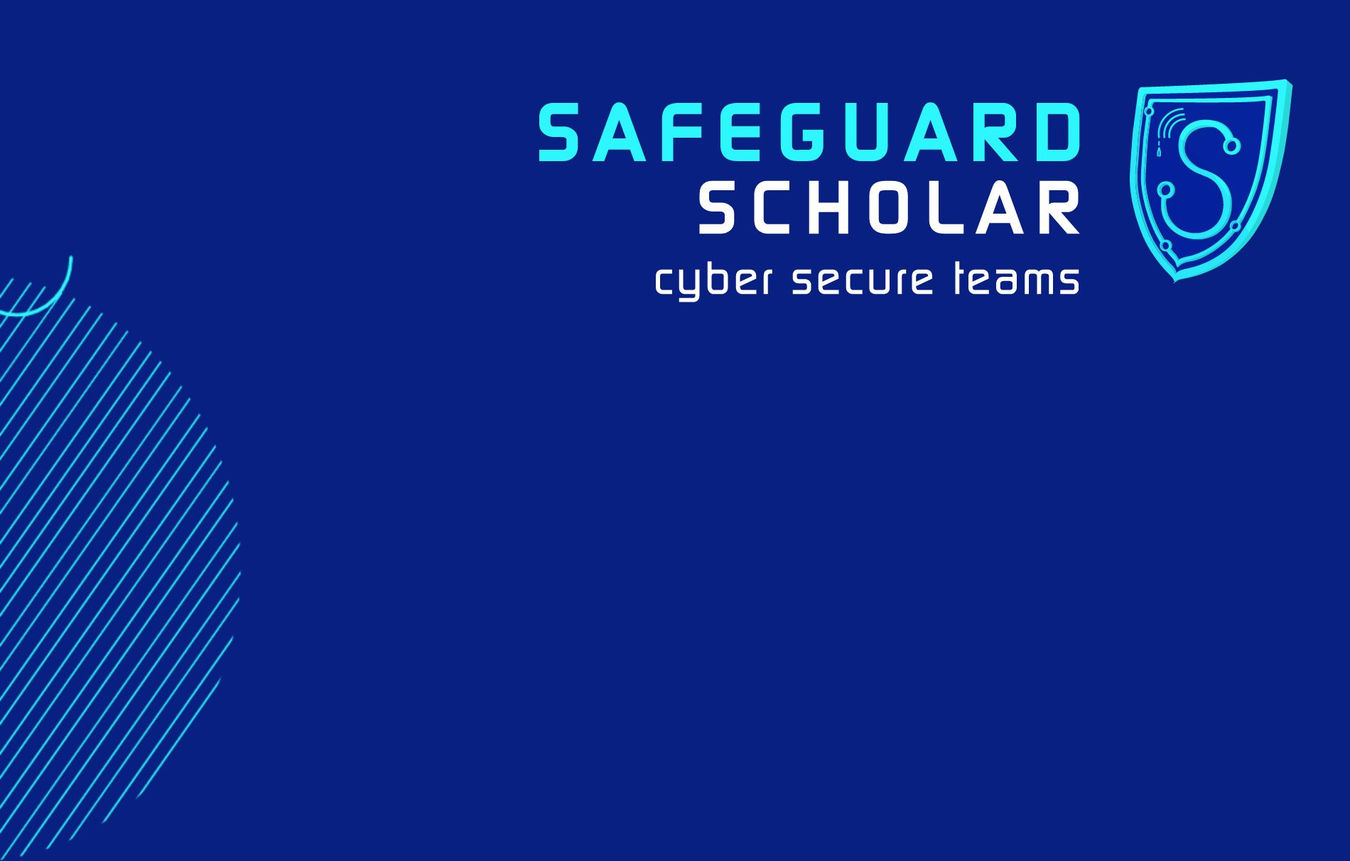
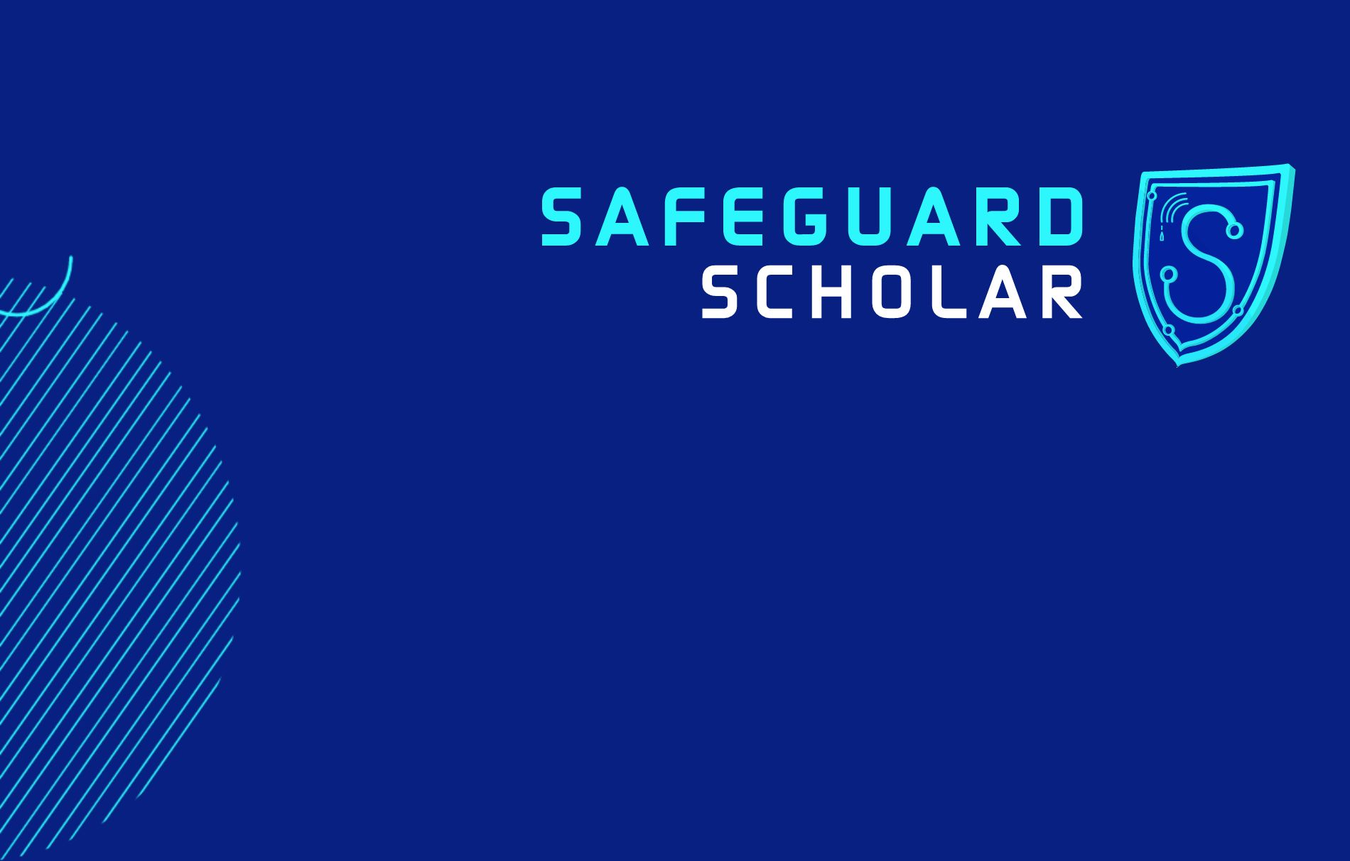
some css changes to remove background darkening

Changed region(s): [[0.3726, 0.122, 0.8074, 0.366], [0.8384, 0.0915, 0.9626, 0.427]]

diff --git a/css/style.min.css b/css/style.min.css
@@ -4,4 +4,4 @@
  * Author: ProBootstrap.com
  * Author URL: https://probootstrap.com
  * License: Released for free under the Creative Commons Attribution 3.0 license (probootstrap.com/license)
- */.probootstrap-navbar .dropdown-submenu>a:before,.probootstrap-navbar .dropdown>a:before{speak:none;font-style:normal;font-variant:normal;-webkit-font-smoothing:antialiased;-moz-osx-font-smoothing:grayscale}@font-face{font-family:icomoon;src:url(../fonts/icomoon/fonts/icomoon.eot?1z9v6x);src:url(../fonts/icomoon/fonts/icomoon.eot?1z9v6x#iefix) format("embedded-opentype"),url(../fonts/icomoon/fonts/icomoon.ttf?1z9v6x) format("truetype"),url(../fonts/icomoon/fonts/icomoon.woff?1z9v6x) format("woff"),url(../fonts/icomoon/fonts/icomoon.svg?1z9v6x#icomoon) format("svg");font-weight:400;font-style:normal}html{overflow-x:hidden;font-size:1.25em}body{background:#fff;color:#73767c;line-height:1.7;font-size:16px;font-family:"Open Sans",Arial,sans-serif}::selection{background:#000;color:#fff}::-moz-selection{background:#000;color:#fff}h1,h2,h3,h4,h5,h6,ol,p{margin-bottom:30px}a{-webkit-transition:.3s all;transition:.3s all;color:#1a57a5}a:active,a:focus,a:hover{color:#174b8f;text-decoration:none}.probootstrap-navbar{border:none;-webkit-box-shadow:none;box-shadow:none;border-radius:0;margin-bottom:0;background:0 0;position:absolute;top:40px;width:100%;z-index:200}@media screen and (max-width:768px){.probootstrap-navbar{top:0;background:#fff;-webkit-box-shadow:0 2px 10px 0 rgba(0,0,0,.1);box-shadow:0 2px 10px 0 rgba(0,0,0,.1)}}.probootstrap-navbar .navbar-toggle:focus,.probootstrap-navbar .navbar-toggle:hover{background-color:transparent}.probootstrap-navbar .navbar-toggle{border:none}.probootstrap-navbar .navbar-toggle span.icon-bar{-webkit-transition:all .15s;transition:all .15s}.probootstrap-navbar .navbar-toggle span:nth-child(2){-webkit-transform:rotate(45deg);transform:rotate(45deg);-webkit-transform-origin:10% 10%;transform-origin:10% 10%}.probootstrap-navbar .navbar-toggle span:nth-child(3){opacity:0}.probootstrap-navbar .navbar-toggle span:nth-child(4){-webkit-transform:rotate(-45deg);transform:rotate(-45deg);-webkit-transform-origin:10% 90%;transform-origin:10% 90%}.probootstrap-navbar .navbar-toggle.collapsed span:nth-child(2),.probootstrap-navbar .navbar-toggle.collapsed span:nth-child(4){-webkit-transform:rotate(0);transform:rotate(0)}.probootstrap-navbar .navbar-toggle.collapsed span:nth-child(3){opacity:1}.probootstrap-navbar .navbar-brand,.probootstrap-navbar .navbar-nav>li>a,.probootstrap-navbar .parent-nav-link-padding{margin-left:15px;margin-right:15px;padding:25px 0}.probootstrap-navbar .dropdown-header{color:rgba(255,255,255,.2);padding-left:10px;text-transform:uppercase}.probootstrap-navbar .dropdown>a{padding-right:10px!important;position:relative;display:block}@media screen and (max-width:480px){.probootstrap-navbar .dropdown>a{display:block;padding-right:0}}.probootstrap-navbar .dropdown>a:before{font-family:icomoon;font-weight:400;text-transform:none;line-height:1;position:absolute;top:50%;right:0;margin-right:-10px;margin-top:-11px;content:"\e924";font-size:20px;color:rgba(255,255,255,.5);-webkit-transition:.3s all;transition:.3s all}.probootstrap-navbar .navbar-brand,.probootstrap-navbar .navbar-brand em{font-family:"Open Sans",Arial,sans-serif}@media screen and (max-width:768px){.probootstrap-navbar .navbar-brand,.probootstrap-navbar .navbar-nav>li>a,.probootstrap-navbar .parent-nav-link-padding{padding-top:25px!important;padding-bottom:25px!important}.probootstrap-navbar .dropdown>a:before{color:rgba(0,0,0,.2)}}.probootstrap-navbar .dropdown>a:hover:before{-webkit-transform:rotate(180deg);transform:rotate(180deg)}.probootstrap-navbar .dropdown.open>a,.probootstrap-navbar .dropdown:active>a,.probootstrap-navbar .dropdown:focus>a,.probootstrap-navbar .dropdown:hover>a{-webkit-transition:.3s all;transition:.3s all}.probootstrap-navbar .dropdown.open>a:before,.probootstrap-navbar .dropdown:active>a:before,.probootstrap-navbar .dropdown:focus>a:before,.probootstrap-navbar .dropdown:hover>a:before{-webkit-transform:rotate(180deg);transform:rotate(180deg)}.probootstrap-navbar .dropdown>.dropdown-menu>li a{padding:10px;color:rgba(255,255,255,.8)}.probootstrap-navbar .dropdown>.dropdown-menu>li a:hover,.probootstrap-navbar .dropdown>.dropdown-menu>li.open>a,.probootstrap-navbar .dropdown>.dropdown-menu>li:active>a,.probootstrap-navbar .dropdown>.dropdown-menu>li:focus>a,.probootstrap-navbar .dropdown>.dropdown-menu>li:hover>a{color:#85C8DD;background:#fff;border-top:none}.probootstrap-navbar .dropdown>.dropdown-menu>li.dropdown-submenu.open>a,.probootstrap-navbar .dropdown>.dropdown-menu>li.dropdown-submenu:active>a,.probootstrap-navbar .dropdown>.dropdown-menu>li.dropdown-submenu:focus>a,.probootstrap-navbar .dropdown>.dropdown-menu>li.dropdown-submenu:hover>a{border-top:none}.probootstrap-navbar .dropdown>.dropdown-menu>li.dropdown-submenu.open>a:before,.probootstrap-navbar .dropdown>.dropdown-menu>li.dropdown-submenu:active>a:before,.probootstrap-navbar .dropdown>.dropdown-menu>li.dropdown-submenu:focus>a:before,.probootstrap-navbar .dropdown>.dropdown-menu>li.dropdown-submenu:hover>a:before{color:#000}.probootstrap-navbar .dropdown>.dropdown-menu>li.active>a,.probootstrap-navbar .navbar-brand:hover{color:#fff}.probootstrap-navbar .navbar-right .dropdown-menu{right:auto}.probootstrap-navbar .dropdown-menu{border:none;background:#85C8DD;border-radius:0;-webkit-box-shadow:0 0 7px 0 rgba(0,0,0,.15);box-shadow:0 0 7px 0 rgba(0,0,0,.15);min-width:200px;white-space:normal;word-wrap:break-word}.probootstrap-navbar .dropdown-menu a{white-space:normal}@media screen and (max-width:768px){.probootstrap-navbar .dropdown-menu{width:100%;padding:10px 15px}.probootstrap-navbar .dropdown-menu a{color:#fff}}.probootstrap-navbar .navbar-brand{text-transform:uppercase;color:#fff;font-size:26px;font-weight:700;padding-left:15px}@media screen and (max-width:768px){.probootstrap-navbar .navbar-brand{color:#1a57a5;line-height:0;padding-left:0}}.probootstrap-navbar .navbar-nav>li>a{color:#fff;font-size:15px;position:relative;text-transform:uppercase}@media screen and (max-width:768px){.probootstrap-navbar .navbar-nav>li>a{padding-top:8px!important;padding-bottom:8px!important;color:rgba(0,0,0,.7)}}.probootstrap-navbar .navbar-nav>li>a:active,.probootstrap-navbar .navbar-nav>li>a:focus,.probootstrap-navbar .navbar-nav>li>a:hover{color:rgba(255,255,255,.7)}@media screen and (max-width:768px){.probootstrap-navbar .navbar-nav>li>a:active,.probootstrap-navbar .navbar-nav>li>a:focus,.probootstrap-navbar .navbar-nav>li>a:hover{color:rgba(0,0,0,.7)}}.probootstrap-navbar .navbar-nav>li.open>a,.probootstrap-navbar .navbar-nav>li.open>a:focus,.probootstrap-navbar .navbar-nav>li.open>a:hover{background:0 0}.probootstrap-navbar .navbar-nav>li.active>a{background:0 0;color:#fff}@media screen and (max-width:768px){.probootstrap-navbar .navbar-nav>li.active>a{color:rgba(0,0,0,.7)}}.probootstrap-navbar .navbar-nav>li.active>a:active,.probootstrap-navbar .navbar-nav>li.active>a:focus,.probootstrap-navbar .navbar-nav>li.active>a:hover{background:0 0;color:#fff}.probootstrap-navbar .navbar-nav>li>.dropdown-menu:before{border:1px solid #85C8DD;content:"";position:absolute;top:-20px;left:40px;border-color:rgba(133,200,221,0);border-bottom-color:#85C8DD;border-width:10px;margin-left:-10px}@media screen and (max-width:768px){.probootstrap-navbar .navbar-nav>li.active>a:active,.probootstrap-navbar .navbar-nav>li.active>a:focus,.probootstrap-navbar .navbar-nav>li.active>a:hover{color:rgba(0,0,0,.7)}.probootstrap-navbar .navbar-nav>li>.dropdown-menu:before{display:none}}.probootstrap-navbar .navbar-nav .dropdown li.active>a{background:0 0}.probootstrap-navbar .navbar-nav.active>a{color:#1a57a5!important}.probootstrap-navbar .dropdown-submenu{position:relative}.probootstrap-navbar .dropdown-submenu .dropdown-menu{top:0;left:100%;margin-top:-1px}.probootstrap-navbar .dropdown-submenu>a{display:block}.probootstrap-navbar .dropdown-submenu>a:before{font-family:icomoon;font-weight:400;text-transform:none;line-height:1;position:absolute;top:50%;right:0;margin-right:10px;margin-top:-11px;content:"\e926";font-size:20px;color:rgba(255,255,255,.5);-webkit-transition:.3s all;transition:.3s all}@media screen and (max-width:768px){.probootstrap-navbar .dropdown-submenu>a:before{color:rgba(0,0,0,.2)}}.probootstrap-navbar .dropdown-submenu>a:hover:before{color:rgba(0,0,0,.3);-webkit-transform:rotate(180deg);transform:rotate(180deg)}.probootstrap-navbar.scrolled{background:#fff;-webkit-box-shadow:0 1px 3px 0 rgba(0,0,0,.09);box-shadow:0 1px 3px 0 rgba(0,0,0,.09);position:fixed;top:0;left:0;right:0;width:100%;-webkit-transform:translateY(-100%);transform:translateY(-100%)}.probootstrap-navbar.scrolled.awake,.probootstrap-navbar.scrolled.sleep{-webkit-transition:.3s all ease;transition:.3s all ease}.probootstrap-navbar.scrolled.awake{-webkit-transform:translateY(0);transform:translateY(0)}.probootstrap-navbar.scrolled.sleep{-webkit-transform:translateY(-100%);transform:translateY(-100%)}.probootstrap-navbar.scrolled .navbar-brand{top:30px;color:#1a57a5}.probootstrap-navbar.scrolled .dropdown>a:before{color:rgba(0,0,0,.4)}.probootstrap-navbar.scrolled .navbar-nav>li>a{color:rgba(0,0,0,.7)}.probootstrap-navbar.scrolled .navbar-nav>li>a:hover{color:rgba(0,0,0,.7)!important}.probootstrap-navbar.scrolled .navbar-nav>li.active>a{color:#1a57a5!important}.probootstrap-hero{background-color:#ccc;background-size:cover;background-position:left top;padding:9em 0 15em;position:relative;overflow:hidden}@media screen and (max-width:768px){.probootstrap-navbar.scrolled .navbar-nav>li.active>a{color:#1a57a5!important}.probootstrap-hero{height:inherit;padding:7em 0 15em}}.probootstrap-hero:before{content:"";position:absolute;width:100%;top:0;left:0;right:0;bottom:0;background:rgba(0,0,0,.5)}.probootstrap-hero .intro-text{position:relative;padding-top:100px}.probootstrap-hero .intro-text .probootstrap-heading{font-size:54px;font-weight:300;color:#fff;margin-bottom:40px;line-height:1.3}@media screen and (max-width:768px){.probootstrap-hero .intro-text{padding-top:50px}.probootstrap-hero .intro-text .probootstrap-heading{font-size:36px;text-align:center}}.probootstrap-hero .intro-text .probootstrap-subheading{max-width:500px;color:rgba(255,255,255,.9);font-size:20px}.probootstrap-hero .intro-text .probootstrap-subheading.center{margin:0 auto}.probootstrap-hero .intro-text .probootstrap-subheading .btn{padding:20px 40px;border-radius:0;margin-right:10px;border:2px solid #1a57a5}.probootstrap-hero .intro-text .probootstrap-subheading .btn:hover{background:#103463;border-color:#103463}@media screen and (max-width:480px){.probootstrap-navbar .dropdown-submenu:hover>.dropdown-menu{display:block}.probootstrap-hero .intro-text .probootstrap-subheading .btn{width:100%;margin-right:0;margin-bottom:10px}}.probootstrap-hero .intro-text .probootstrap-subheading .btn.btn-default{background:0 0;border:2px solid rgba(255,255,255,.7);color:#fff}.probootstrap-hero .intro-text .probootstrap-subheading .btn.btn-default:active,.probootstrap-hero .intro-text .probootstrap-subheading .btn.btn-default:focus,.probootstrap-hero .intro-text .probootstrap-subheading .btn.btn-default:hover{background:rgba(255,255,255,.3)}.probootstrap-section{padding:7em 0;position:relative}@media screen and (max-width:768px){.probootstrap-hero .intro-text .probootstrap-subheading{max-width:100%;text-align:center}.probootstrap-section{padding:4em 0}}.probootstrap-section.probootstrap-bg-light{background:#D6E6F2}.probootstrap-section.probootstrap-cta{background:#1a57a5;color:#fff;padding:3em 0}.probootstrap-section.probootstrap-cta :last-child{margin-bottom:0}.probootstrap-section.probootstrap-cta .probootstrap-heading{color:#fff;margin-bottom:20px}.probootstrap-section.probootstrap-cta .probootstrap-sub-heading{color:rgba(255,255,255,.7)}.probootstrap-footer{padding:3em 0;position:relative;background:#1a57a5;color:#fff}.probootstrap-footer a{color:rgba(255,255,255,.4)}.probootstrap-footer a:hover{color:#fff}.probootstrap-section-heading .probootstrap-heading{font-size:50px;line-height:1.45;position:relative;padding-bottom:30px}.probootstrap-section-heading .probootstrap-heading:after{content:"";position:absolute;bottom:0;width:70px;height:2px;background:#1a57a5;left:50%;-webkit-transform:translateX(-50%);transform:translateX(-50%)}@media screen and (max-width:768px){.probootstrap-section-heading .probootstrap-heading{font-size:40px}}.probootstrap-section-heading .probootstrap-heading-2{line-height:1.45;font-size:36px}@media screen and (max-width:768px){.probootstrap-section-heading .probootstrap-heading-2{font-size:24px}}.probootstrap-form,.probootstrap-shadow,.probootstrap-testimonial:focus,.probootstrap-testimonial:hover{-webkit-box-shadow:0 20px 45px -10px rgba(0,0,0,.15);box-shadow:0 20px 45px -10px rgba(0,0,0,.15)}.probootstrap-social>a{padding:10px;font-size:30px}.probootstrap-pricing{text-align:center;padding:30px;margin-bottom:30px;border:1px solid #ebebeb}.probootstrap-pricing h2{font-size:14px;text-transform:uppercase;letter-spacing:.2em;color:#000;margin-bottom:0}.probootstrap-pricing .probootstrap-note{color:#bdbdbd;font-style:italic;font-size:14px}.probootstrap-check-2:before,.probootstrap-list li:before{font-family:icomoon;speak:none;font-style:normal;font-variant:normal;text-transform:none;line-height:1;-webkit-font-smoothing:antialiased;-moz-osx-font-smoothing:grayscale;left:0}.probootstrap-pricing .probootstrap-price strong{font-size:62px;font-weight:300;color:#1a57a5}@media screen and (max-width:768px){.probootstrap-pricing .probootstrap-price strong{font-size:42px}}.probootstrap-link{position:relative}.probootstrap-link i{position:relative;right:0;top:.15em;-webkit-transition:.3s all ease;transition:.3s all ease}.probootstrap-link:hover i{right:-10px}.probootstrap-list{padding:0;margin:0}.probootstrap-list li{margin:0 0 10px;padding:0;position:relative;list-style:none}.probootstrap-list li:before{font-weight:400;position:absolute;top:.3em}.probootstrap-list li.probootstrap-check{padding-left:30px}.probootstrap-list li.probootstrap-check:before{color:#1a57a5;font-size:16px;content:"\eb91"}.probootstrap-check-2{padding-left:40px;position:relative}.probootstrap-check-2:before{font-weight:400;position:absolute;top:.2em;color:#1a57a5;font-size:20px;content:"\eb91"}.btn{border-radius:0;font-size:16px;padding:10px 40px}.btn.btn-primary{background:#1a57a5}.btn.btn-primary:active,.btn.btn-primary:focus,.btn.btn-primary:hover{background:#103463}.btn.btn-black{color:#fff;background:#000}.btn.btn-black:active,.btn.btn-black:focus,.btn.btn-black:hover{background:#262626}.probootstrap-service-item{position:relative;padding:30px;margin-bottom:30px;float:left;width:100%}@media screen and (max-width:768px){.probootstrap-service-item{padding:0}}.probootstrap-service-item .icon{display:block;font-size:70px;margin-bottom:50px;color:#1a57a5}.probootstrap-service-item h2{font-size:24px;color:#1a57a5}.probootstrap-testimonial{background:#fff;padding:30px;-webkit-transition:.3s all ease;transition:.3s all ease;border-radius:4px;margin-bottom:30px}@media screen and (max-width:768px){.probootstrap-testimonial{padding:20px}}.probootstrap-testimonial .probootstrap-author-photo{height:70px}.probootstrap-testimonial .probootstrap-rate i{color:#d9d9d9}.probootstrap-testimonial .probootstrap-rate i.icon-star{color:#F79F24}.probootstrap-testimonial blockquote{padding:0;border:none}.probootstrap-testimonial blockquote p{font-style:italic;color:#000}.probootstrap-form{padding:40px;background:#fff;margin-bottom:50px}@media screen and (max-width:768px){.probootstrap-form{padding:15px}.img-sm-responsive{max-width:100%}}.probootstrap-form label{font-weight:400}.probootstrap-form .form-control{height:46px;-webkit-box-shadow:none;box-shadow:none;font-size:14px;-webkit-appearance:none;-moz-appearance:none;appearance:none;border-radius:0;border:1px solid #d9d9d9}.probootstrap-form .form-control:active,.probootstrap-form .form-control:focus{-webkit-box-shadow:none;box-shadow:none;border:1px solid #1a57a5}.probootstrap-form .form-group:last-child{margin-bottom:0;padding-bottom:0}.probootstrap-form .form-group label{text-transform:uppercase;font-size:13px}.probootstrap-form .form-group .form-field{position:relative}.probootstrap-form .form-group .form-field .icon{position:absolute;top:50%;-webkit-transform:translateY(-50%);transform:translateY(-50%);right:20px}.probootstrap-form .form-group .form-field .form-control{padding-right:50px}.probootstrap-form textarea.form-control{height:inherit;resize:vertical}.probootstrap-contact-details{padding:0;margin:0}.probootstrap-contact-details li{padding:0;margin:0 0 30px;list-style:none}.probootstrap-contact-details li>span{display:block;color:rgba(0,0,0,.3)}.probootstrap-animate{opacity:0;visibility:hidden}.mfp-fade.mfp-bg{opacity:0;-webkit-transition:all .15s ease-out;transition:all .15s ease-out}.mfp-fade.mfp-bg.mfp-ready{opacity:.8}.mfp-fade.mfp-bg.mfp-removing{opacity:0}.mfp-fade.mfp-wrap .mfp-content{opacity:0;-webkit-transition:all .15s ease-out;transition:all .15s ease-out}.mfp-fade.mfp-wrap.mfp-ready .mfp-content{opacity:1}.mfp-fade.mfp-wrap.mfp-removing .mfp-content{opacity:0}.image-link{cursor:-webkit-zoom-in;cursor:zoom-in}.mfp-with-zoom .mfp-container,.mfp-with-zoom.mfp-bg{opacity:0;-webkit-backface-visibility:hidden;-webkit-transition:all .3s ease-out;transition:all .3s ease-out}.mfp-with-zoom.mfp-ready .mfp-container{opacity:1}.mfp-with-zoom.mfp-ready.mfp-bg{opacity:.8}.mfp-with-zoom.mfp-removing .mfp-container,.mfp-with-zoom.mfp-removing.mfp-bg{opacity:0}.mfp-no-margins img.mfp-img{padding:0}.mfp-no-margins .mfp-figure:after{top:0;bottom:0}.mfp-no-margins .mfp-container{padding:0}.mfp-title{text-align:center;padding:6px 0}.image-source-link{color:#DDD}.probootstrap-gutter0>div[class*=col-]{padding-right:0;padding-left:0}@media screen and (max-width:480px){.probootstrap-gutter0>div[class*=col-]{padding-right:15px;padding-left:15px}}.probootstrap-gutter10>div[class*=col-]{padding-right:5px!important;padding-left:5px!important}.probootstrap-gutter30>div[class*=col-]{padding-right:15px;padding-left:15px}@media screen and (max-width:480px){.probootstrap-gutter10>div[class*=col-],.probootstrap-gutter30>div[class*=col-]{padding-right:15px;padding-left:15px}}.probootstrap-gutter40>div[class*=col-]{padding-right:20px;padding-left:20px}@media screen and (max-width:480px){.probootstrap-gutter40>div[class*=col-]{padding-right:15px;padding-left:15px}}.probootstrap-gutter60>div[class*=col-]{padding-right:30px;padding-left:30px}@media screen and (max-width:480px){.probootstrap-gutter60>div[class*=col-]{padding-right:15px;padding-left:15px}}.mb0{margin-bottom:0!important}.mb10{margin-bottom:10px!important}.mb20{margin-bottom:20px!important}.mb30{margin-bottom:30px!important}.mb40{margin-bottom:40px!important}.mb50{margin-bottom:50px!important}.mb60{margin-bottom:60px!important}.mb70{margin-bottom:70px!important}.mb80{margin-bottom:80px!important}.mb90{margin-bottom:90px!important}.mb100{margin-bottom:100px!important}.mt0{margin-top:0!important}.mt10{margin-top:10px!important}.mt20{margin-top:20px!important}.mt30{margin-top:30px!important}.mt40{margin-top:40px!important}.mt50{margin-top:50px!important}.mt60{margin-top:60px!important}.mt70{margin-top:70px!important}.mt80{margin-top:80px!important}.mt90{margin-top:90px!important}.mt100{margin-top:100px!important}.pb0{padding-bottom:0!important}.text-black{color:#000!important}.text-primary{color:#1a57a5!important}@media screen and (max-width:768px){.img-xs-responsive{max-width:100%}}
+ */.probootstrap-navbar .dropdown-submenu>a:before,.probootstrap-navbar .dropdown>a:before{speak:none;font-style:normal;font-variant:normal;-webkit-font-smoothing:antialiased;-moz-osx-font-smoothing:grayscale}@font-face{font-family:icomoon;src:url(../fonts/icomoon/fonts/icomoon.eot?1z9v6x);src:url(../fonts/icomoon/fonts/icomoon.eot?1z9v6x#iefix) format("embedded-opentype"),url(../fonts/icomoon/fonts/icomoon.ttf?1z9v6x) format("truetype"),url(../fonts/icomoon/fonts/icomoon.woff?1z9v6x) format("woff"),url(../fonts/icomoon/fonts/icomoon.svg?1z9v6x#icomoon) format("svg");font-weight:400;font-style:normal}html{overflow-x:hidden;font-size:1.25em}body{background:#fff;color:#73767c;line-height:1.7;font-size:16px;font-family:"Open Sans",Arial,sans-serif}::selection{background:#000;color:#fff}::-moz-selection{background:#000;color:#fff}h1,h2,h3,h4,h5,h6,ol,p{margin-bottom:30px}a{-webkit-transition:.3s all;transition:.3s all;color:#1a57a5}a:active,a:focus,a:hover{color:#174b8f;text-decoration:none}.probootstrap-navbar{border:none;-webkit-box-shadow:none;box-shadow:none;border-radius:0;margin-bottom:0;background:0 0;position:absolute;top:40px;width:100%;z-index:200}@media screen and (max-width:768px){.probootstrap-navbar{top:0;background:#fff;-webkit-box-shadow:0 2px 10px 0 rgba(0,0,0,.1);box-shadow:0 2px 10px 0 rgba(0,0,0,.1)}}.probootstrap-navbar .navbar-toggle:focus,.probootstrap-navbar .navbar-toggle:hover{background-color:transparent}.probootstrap-navbar .navbar-toggle{border:none}.probootstrap-navbar .navbar-toggle span.icon-bar{-webkit-transition:all .15s;transition:all .15s}.probootstrap-navbar .navbar-toggle span:nth-child(2){-webkit-transform:rotate(45deg);transform:rotate(45deg);-webkit-transform-origin:10% 10%;transform-origin:10% 10%}.probootstrap-navbar .navbar-toggle span:nth-child(3){opacity:0}.probootstrap-navbar .navbar-toggle span:nth-child(4){-webkit-transform:rotate(-45deg);transform:rotate(-45deg);-webkit-transform-origin:10% 90%;transform-origin:10% 90%}.probootstrap-navbar .navbar-toggle.collapsed span:nth-child(2),.probootstrap-navbar .navbar-toggle.collapsed span:nth-child(4){-webkit-transform:rotate(0);transform:rotate(0)}.probootstrap-navbar .navbar-toggle.collapsed span:nth-child(3){opacity:1}.probootstrap-navbar .navbar-brand,.probootstrap-navbar .navbar-nav>li>a,.probootstrap-navbar .parent-nav-link-padding{margin-left:15px;margin-right:15px;padding:25px 0}.probootstrap-navbar .dropdown-header{color:rgba(255,255,255,.2);padding-left:10px;text-transform:uppercase}.probootstrap-navbar .dropdown>a{padding-right:10px!important;position:relative;display:block}@media screen and (max-width:480px){.probootstrap-navbar .dropdown>a{display:block;padding-right:0}}.probootstrap-navbar .dropdown>a:before{font-family:icomoon;font-weight:400;text-transform:none;line-height:1;position:absolute;top:50%;right:0;margin-right:-10px;margin-top:-11px;content:"\e924";font-size:20px;color:rgba(255,255,255,.5);-webkit-transition:.3s all;transition:.3s all}.probootstrap-navbar .navbar-brand,.probootstrap-navbar .navbar-brand em{font-family:"Trebuchet MS",Trebuchet MS,sans-serif}@media screen and (max-width:768px){.probootstrap-navbar .navbar-brand,.probootstrap-navbar .navbar-nav>li>a,.probootstrap-navbar .parent-nav-link-padding{padding-top:25px!important;padding-bottom:25px!important}.probootstrap-navbar .dropdown>a:before{color:rgba(0,0,0,.2)}}.probootstrap-navbar .dropdown>a:hover:before{-webkit-transform:rotate(180deg);transform:rotate(180deg)}.probootstrap-navbar .dropdown.open>a,.probootstrap-navbar .dropdown:active>a,.probootstrap-navbar .dropdown:focus>a,.probootstrap-navbar .dropdown:hover>a{-webkit-transition:.3s all;transition:.3s all}.probootstrap-navbar .dropdown.open>a:before,.probootstrap-navbar .dropdown:active>a:before,.probootstrap-navbar .dropdown:focus>a:before,.probootstrap-navbar .dropdown:hover>a:before{-webkit-transform:rotate(180deg);transform:rotate(180deg)}.probootstrap-navbar .dropdown>.dropdown-menu>li a{padding:10px;color:rgba(255,255,255,.8)}.probootstrap-navbar .dropdown>.dropdown-menu>li a:hover,.probootstrap-navbar .dropdown>.dropdown-menu>li.open>a,.probootstrap-navbar .dropdown>.dropdown-menu>li:active>a,.probootstrap-navbar .dropdown>.dropdown-menu>li:focus>a,.probootstrap-navbar .dropdown>.dropdown-menu>li:hover>a{color:#85C8DD;background:#fff;border-top:none}.probootstrap-navbar .dropdown>.dropdown-menu>li.dropdown-submenu.open>a,.probootstrap-navbar .dropdown>.dropdown-menu>li.dropdown-submenu:active>a,.probootstrap-navbar .dropdown>.dropdown-menu>li.dropdown-submenu:focus>a,.probootstrap-navbar .dropdown>.dropdown-menu>li.dropdown-submenu:hover>a{border-top:none}.probootstrap-navbar .dropdown>.dropdown-menu>li.dropdown-submenu.open>a:before,.probootstrap-navbar .dropdown>.dropdown-menu>li.dropdown-submenu:active>a:before,.probootstrap-navbar .dropdown>.dropdown-menu>li.dropdown-submenu:focus>a:before,.probootstrap-navbar .dropdown>.dropdown-menu>li.dropdown-submenu:hover>a:before{color:#000}.probootstrap-navbar .dropdown>.dropdown-menu>li.active>a,.probootstrap-navbar .navbar-brand:hover{color:#fff}.probootstrap-navbar .navbar-right .dropdown-menu{right:auto}.probootstrap-navbar .dropdown-menu{border:none;background:#85C8DD;border-radius:0;-webkit-box-shadow:0 0 7px 0 rgba(0,0,0,.15);box-shadow:0 0 7px 0 rgba(0,0,0,.15);min-width:200px;white-space:normal;word-wrap:break-word}.probootstrap-navbar .dropdown-menu a{white-space:normal}@media screen and (max-width:768px){.probootstrap-navbar .dropdown-menu{width:100%;padding:10px 15px}.probootstrap-navbar .dropdown-menu a{color:#fff}}.probootstrap-navbar .navbar-brand{text-transform:uppercase;color:#fff;font-size:26px;font-weight:700;padding-left:15px}@media screen and (max-width:768px){.probootstrap-navbar .navbar-brand{color:#1a57a5;line-height:0;padding-left:0}}.probootstrap-navbar .navbar-nav>li>a{color:#fff;font-size:15px;position:relative;text-transform:uppercase}@media screen and (max-width:768px){.probootstrap-navbar .navbar-nav>li>a{padding-top:8px!important;padding-bottom:8px!important;color:rgba(0,0,0,.7)}}.probootstrap-navbar .navbar-nav>li>a:active,.probootstrap-navbar .navbar-nav>li>a:focus,.probootstrap-navbar .navbar-nav>li>a:hover{color:rgba(255,255,255,.7)}@media screen and (max-width:768px){.probootstrap-navbar .navbar-nav>li>a:active,.probootstrap-navbar .navbar-nav>li>a:focus,.probootstrap-navbar .navbar-nav>li>a:hover{color:rgba(0,0,0,.7)}}.probootstrap-navbar .navbar-nav>li.open>a,.probootstrap-navbar .navbar-nav>li.open>a:focus,.probootstrap-navbar .navbar-nav>li.open>a:hover{background:0 0}.probootstrap-navbar .navbar-nav>li.active>a{background:0 0;color:#fff}@media screen and (max-width:768px){.probootstrap-navbar .navbar-nav>li.active>a{color:rgba(0,0,0,.7)}}.probootstrap-navbar .navbar-nav>li.active>a:active,.probootstrap-navbar .navbar-nav>li.active>a:focus,.probootstrap-navbar .navbar-nav>li.active>a:hover{background:0 0;color:#fff}.probootstrap-navbar .navbar-nav>li>.dropdown-menu:before{border:1px solid #85C8DD;content:"";position:absolute;top:-20px;left:40px;border-color:rgba(133,200,221,0);border-bottom-color:#85C8DD;border-width:10px;margin-left:-10px}@media screen and (max-width:768px){.probootstrap-navbar .navbar-nav>li.active>a:active,.probootstrap-navbar .navbar-nav>li.active>a:focus,.probootstrap-navbar .navbar-nav>li.active>a:hover{color:rgba(0,0,0,.7)}.probootstrap-navbar .navbar-nav>li>.dropdown-menu:before{display:none}}.probootstrap-navbar .navbar-nav .dropdown li.active>a{background:0 0}.probootstrap-navbar .navbar-nav.active>a{color:#1a57a5!important}.probootstrap-navbar .dropdown-submenu{position:relative}.probootstrap-navbar .dropdown-submenu .dropdown-menu{top:0;left:100%;margin-top:-1px}.probootstrap-navbar .dropdown-submenu>a{display:block}.probootstrap-navbar .dropdown-submenu>a:before{font-family:icomoon;font-weight:400;text-transform:none;line-height:1;position:absolute;top:50%;right:0;margin-right:10px;margin-top:-11px;content:"\e926";font-size:20px;color:rgba(255,255,255,.5);-webkit-transition:.3s all;transition:.3s all}@media screen and (max-width:768px){.probootstrap-navbar .dropdown-submenu>a:before{color:rgba(0,0,0,.2)}}.probootstrap-navbar .dropdown-submenu>a:hover:before{color:rgba(0,0,0,.3);-webkit-transform:rotate(180deg);transform:rotate(180deg)}.probootstrap-navbar.scrolled{background:#fff;-webkit-box-shadow:0 1px 3px 0 rgba(0,0,0,.09);box-shadow:0 1px 3px 0 rgba(0,0,0,.09);position:fixed;top:0;left:0;right:0;width:100%;-webkit-transform:translateY(-100%);transform:translateY(-100%)}.probootstrap-navbar.scrolled.awake,.probootstrap-navbar.scrolled.sleep{-webkit-transition:.3s all ease;transition:.3s all ease}.probootstrap-navbar.scrolled.awake{-webkit-transform:translateY(0);transform:translateY(0)}.probootstrap-navbar.scrolled.sleep{-webkit-transform:translateY(-100%);transform:translateY(-100%)}.probootstrap-navbar.scrolled .navbar-brand{top:30px;color:#1a57a5}.probootstrap-navbar.scrolled .dropdown>a:before{color:rgba(0,0,0,.4)}.probootstrap-navbar.scrolled .navbar-nav>li>a{color:rgba(0,0,0,.7)}.probootstrap-navbar.scrolled .navbar-nav>li>a:hover{color:rgba(0,0,0,.7)!important}.probootstrap-navbar.scrolled .navbar-nav>li.active>a{color:#1a57a5!important}.probootstrap-hero{background-color:#ccc;background-size:cover;background-position:left top;padding:9em 0 15em;position:relative;overflow:hidden}@media screen and (max-width:768px){.probootstrap-navbar.scrolled .navbar-nav>li.active>a{color:#1a57a5!important}.probootstrap-hero{height:inherit;padding:7em 0 15em}}.probootstrap-hero:before{content:"";position:absolute;width:100%;top:0;left:0;right:0;bottom:0}.probootstrap-hero .intro-text{position:relative;padding-top:100px}.probootstrap-hero .intro-text .probootstrap-heading{font-family: "Trebuchet MS";font-weight:300;color:#fff;margin-bottom:40px;line-height:1.3}@media screen and (max-width:768px){.probootstrap-hero .intro-text{padding-top:50px}.probootstrap-hero .intro-text .probootstrap-heading{font-size:36px;text-align:center}}.probootstrap-hero .intro-text .probootstrap-subheading{max-width:500px;color:rgba(255,255,255,.9);font-size:20px}.probootstrap-hero .intro-text .probootstrap-subheading.center{margin:0 auto}.probootstrap-hero .intro-text .probootstrap-subheading .btn{padding:20px 40px;border-radius:0;margin-right:10px;border:2px solid #1a57a5}.probootstrap-hero .intro-text .probootstrap-subheading .btn:hover{background:#103463;border-color:#103463}@media screen and (max-width:480px){.probootstrap-navbar .dropdown-submenu:hover>.dropdown-menu{display:block}.probootstrap-hero .intro-text .probootstrap-subheading .btn{width:100%;margin-right:0;margin-bottom:10px}}.probootstrap-hero .intro-text .probootstrap-subheading .btn.btn-default{background:0 0;border:2px solid rgba(255,255,255,.7);color:#fff}.probootstrap-hero .intro-text .probootstrap-subheading .btn.btn-default:active,.probootstrap-hero .intro-text .probootstrap-subheading .btn.btn-default:focus,.probootstrap-hero .intro-text .probootstrap-subheading .btn.btn-default:hover{background:rgba(255,255,255,.3)}.probootstrap-section{padding:7em 0;position:relative}@media screen and (max-width:768px){.probootstrap-hero .intro-text .probootstrap-subheading{max-width:100%;text-align:center}.probootstrap-section{padding:4em 0}}.probootstrap-section.probootstrap-bg-light{background:#D6E6F2}.probootstrap-section.probootstrap-cta{background:#1a57a5;color:#fff;padding:3em 0}.probootstrap-section.probootstrap-cta :last-child{margin-bottom:0}.probootstrap-section.probootstrap-cta .probootstrap-heading{color:#fff;margin-bottom:20px}.probootstrap-section.probootstrap-cta .probootstrap-sub-heading{color:rgba(255,255,255,.7)}.probootstrap-footer{padding:3em 0;position:relative;background:#1a57a5;color:#fff}.probootstrap-footer a{color:rgba(255,255,255,.4)}.probootstrap-footer a:hover{color:#fff}.probootstrap-section-heading .probootstrap-heading{font-size:50px;line-height:1.45;position:relative;padding-bottom:30px}.probootstrap-section-heading .probootstrap-heading:after{content:"";position:absolute;bottom:0;width:70px;height:2px;background:#1a57a5;left:50%;-webkit-transform:translateX(-50%);transform:translateX(-50%)}@media screen and (max-width:768px){.probootstrap-section-heading .probootstrap-heading{font-size:40px}}.probootstrap-section-heading .probootstrap-heading-2{line-height:1.45;font-size:36px}@media screen and (max-width:768px){.probootstrap-section-heading .probootstrap-heading-2{font-size:24px}}.probootstrap-form,.probootstrap-shadow,.probootstrap-testimonial:focus,.probootstrap-testimonial:hover{-webkit-box-shadow:0 20px 45px -10px rgba(0,0,0,.15);box-shadow:0 20px 45px -10px rgba(0,0,0,.15)}.probootstrap-social>a{padding:10px;font-size:30px}.probootstrap-pricing{text-align:center;padding:30px;margin-bottom:30px;border:1px solid #ebebeb}.probootstrap-pricing h2{font-size:14px;text-transform:uppercase;letter-spacing:.2em;color:#000;margin-bottom:0}.probootstrap-pricing .probootstrap-note{color:#bdbdbd;font-style:italic;font-size:14px}.probootstrap-check-2:before,.probootstrap-list li:before{font-family:icomoon;speak:none;font-style:normal;font-variant:normal;text-transform:none;line-height:1;-webkit-font-smoothing:antialiased;-moz-osx-font-smoothing:grayscale;left:0}.probootstrap-pricing .probootstrap-price strong{font-size:62px;font-weight:300;color:#1a57a5}@media screen and (max-width:768px){.probootstrap-pricing .probootstrap-price strong{font-size:42px}}.probootstrap-link{position:relative}.probootstrap-link i{position:relative;right:0;top:.15em;-webkit-transition:.3s all ease;transition:.3s all ease}.probootstrap-link:hover i{right:-10px}.probootstrap-list{padding:0;margin:0}.probootstrap-list li{margin:0 0 10px;padding:0;position:relative;list-style:none}.probootstrap-list li:before{font-weight:400;position:absolute;top:.3em}.probootstrap-list li.probootstrap-check{padding-left:30px}.probootstrap-list li.probootstrap-check:before{color:#1a57a5;font-size:16px;content:"\eb91"}.probootstrap-check-2{padding-left:40px;position:relative}.probootstrap-check-2:before{font-weight:400;position:absolute;top:.2em;color:#1a57a5;font-size:20px;content:"\eb91"}.btn{border-radius:0;font-size:16px;padding:10px 40px}.btn.btn-primary{background:#1a57a5}.btn.btn-primary:active,.btn.btn-primary:focus,.btn.btn-primary:hover{background:#103463}.btn.btn-black{color:#fff;background:#000}.btn.btn-black:active,.btn.btn-black:focus,.btn.btn-black:hover{background:#262626}.probootstrap-service-item{position:relative;padding:30px;margin-bottom:30px;float:left;width:100%}@media screen and (max-width:768px){.probootstrap-service-item{padding:0}}.probootstrap-service-item .icon{display:block;font-size:70px;margin-bottom:50px;color:#1a57a5}.probootstrap-service-item h2{font-size:24px;color:#1a57a5}.probootstrap-testimonial{background:#fff;padding:30px;-webkit-transition:.3s all ease;transition:.3s all ease;border-radius:4px;margin-bottom:30px}@media screen and (max-width:768px){.probootstrap-testimonial{padding:20px}}.probootstrap-testimonial .probootstrap-author-photo{height:70px}.probootstrap-testimonial .probootstrap-rate i{color:#d9d9d9}.probootstrap-testimonial .probootstrap-rate i.icon-star{color:#F79F24}.probootstrap-testimonial blockquote{padding:0;border:none}.probootstrap-testimonial blockquote p{font-style:italic;color:#000}.probootstrap-form{padding:40px;background:#fff;margin-bottom:50px}@media screen and (max-width:768px){.probootstrap-form{padding:15px}.img-sm-responsive{max-width:100%}}.probootstrap-form label{font-weight:400}.probootstrap-form .form-control{height:46px;-webkit-box-shadow:none;box-shadow:none;font-size:14px;-webkit-appearance:none;-moz-appearance:none;appearance:none;border-radius:0;border:1px solid #d9d9d9}.probootstrap-form .form-control:active,.probootstrap-form .form-control:focus{-webkit-box-shadow:none;box-shadow:none;border:1px solid #1a57a5}.probootstrap-form .form-group:last-child{margin-bottom:0;padding-bottom:0}.probootstrap-form .form-group label{text-transform:uppercase;font-size:13px}.probootstrap-form .form-group .form-field{position:relative}.probootstrap-form .form-group .form-field .icon{position:absolute;top:50%;-webkit-transform:translateY(-50%);transform:translateY(-50%);right:20px}.probootstrap-form .form-group .form-field .form-control{padding-right:50px}.probootstrap-form textarea.form-control{height:inherit;resize:vertical}.probootstrap-contact-details{padding:0;margin:0}.probootstrap-contact-details li{padding:0;margin:0 0 30px;list-style:none}.probootstrap-contact-details li>span{display:block;color:rgba(0,0,0,.3)}.probootstrap-animate{opacity:0;visibility:hidden}.mfp-fade.mfp-bg{opacity:0;-webkit-transition:all .15s ease-out;transition:all .15s ease-out}.mfp-fade.mfp-bg.mfp-ready{opacity:.8}.mfp-fade.mfp-bg.mfp-removing{opacity:0}.mfp-fade.mfp-wrap .mfp-content{opacity:0;-webkit-transition:all .15s ease-out;transition:all .15s ease-out}.mfp-fade.mfp-wrap.mfp-ready .mfp-content{opacity:1}.mfp-fade.mfp-wrap.mfp-removing .mfp-content{opacity:0}.image-link{cursor:-webkit-zoom-in;cursor:zoom-in}.mfp-with-zoom .mfp-container,.mfp-with-zoom.mfp-bg{opacity:0;-webkit-backface-visibility:hidden;-webkit-transition:all .3s ease-out;transition:all .3s ease-out}.mfp-with-zoom.mfp-ready .mfp-container{opacity:1}.mfp-with-zoom.mfp-ready.mfp-bg{opacity:.8}.mfp-with-zoom.mfp-removing .mfp-container,.mfp-with-zoom.mfp-removing.mfp-bg{opacity:0}.mfp-no-margins img.mfp-img{padding:0}.mfp-no-margins .mfp-figure:after{top:0;bottom:0}.mfp-no-margins .mfp-container{padding:0}.mfp-title{text-align:center;padding:6px 0}.image-source-link{color:#DDD}.probootstrap-gutter0>div[class*=col-]{padding-right:0;padding-left:0}@media screen and (max-width:480px){.probootstrap-gutter0>div[class*=col-]{padding-right:15px;padding-left:15px}}.probootstrap-gutter10>div[class*=col-]{padding-right:5px!important;padding-left:5px!important}.probootstrap-gutter30>div[class*=col-]{padding-right:15px;padding-left:15px}@media screen and (max-width:480px){.probootstrap-gutter10>div[class*=col-],.probootstrap-gutter30>div[class*=col-]{padding-right:15px;padding-left:15px}}.probootstrap-gutter40>div[class*=col-]{padding-right:20px;padding-left:20px}@media screen and (max-width:480px){.probootstrap-gutter40>div[class*=col-]{padding-right:15px;padding-left:15px}}.probootstrap-gutter60>div[class*=col-]{padding-right:30px;padding-left:30px}@media screen and (max-width:480px){.probootstrap-gutter60>div[class*=col-]{padding-right:15px;padding-left:15px}}.mb0{margin-bottom:0!important}.mb10{margin-bottom:10px!important}.mb20{margin-bottom:20px!important}.mb30{margin-bottom:30px!important}.mb40{margin-bottom:40px!important}.mb50{margin-bottom:50px!important}.mb60{margin-bottom:60px!important}.mb70{margin-bottom:70px!important}.mb80{margin-bottom:80px!important}.mb90{margin-bottom:90px!important}.mb100{margin-bottom:100px!important}.mt0{margin-top:0!important}.mt10{margin-top:10px!important}.mt20{margin-top:20px!important}.mt30{margin-top:30px!important}.mt40{margin-top:40px!important}.mt50{margin-top:50px!important}.mt60{margin-top:60px!important}.mt70{margin-top:70px!important}.mt80{margin-top:80px!important}.mt90{margin-top:90px!important}.mt100{margin-top:100px!important}.pb0{padding-bottom:0!important}.text-black{color:#000!important}.text-primary{color:#1a57a5!important}@media screen and (max-width:768px){.img-xs-responsive{max-width:100%}}

diff --git a/index.html b/index.html
@@ -47,7 +47,12 @@
       <div class="container">
         <div class="row intro-text">
           <div class="col-md-8 col-md-offset-2 text-center">
-            <h1 class="probootstrap-heading probootstrap-animate">Educating your teams made <em>fun and easy</em> through relatable stories</h1>
+            <h1 class="probootstrap-heading probootstrap-animate">
+                <br>
+                <br>
+                <br>
+                <br>
+                cyber <em>secure</em> teams</h1>
             <div class="probootstrap-subheading center">
               <p class="probootstrap-animate"><a href="https://uicookies.com/" target="_blank" role="button" class="btn btn-primary">Get Them Now</a><a href="#features" class="btn btn-default smoothscroll" role="button">See Features</a></p>
             </div>
